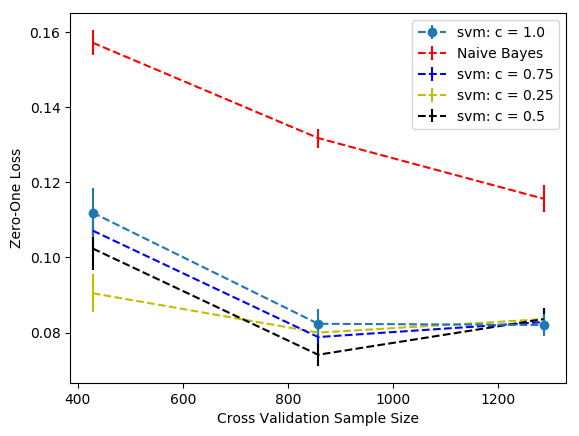
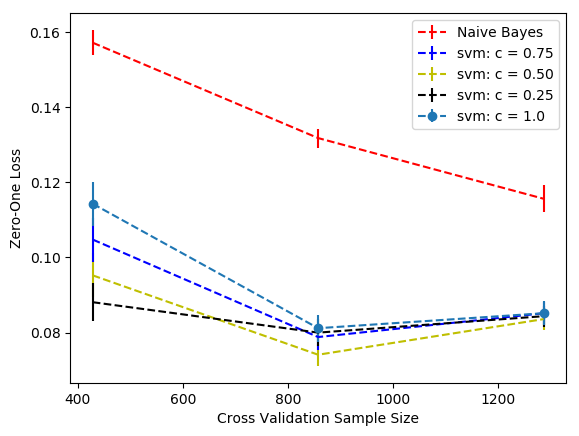
Fix the param plotting method

diff --git a/main.py b/main.py
@@ -1,13 +1,14 @@
 #!/usr/bin/env python3
 import os,sys,re,math,operator,string
 import numpy as np
+import matplotlib
+# matplotlib.use('TkAgg')
 import matplotlib.pyplot as plt
 from utils import *
 from ClassifierResult import *
 from sklearn.svm import LinearSVC
 from sklearn.naive_bayes import MultinomialNB
 from sklearn.datasets import make_classification
-import matplotlib
 
 def k_fold_cross_validation(tr_data,tr_labels,split_number):
 
@@ -16,7 +17,7 @@ def k_fold_cross_validation(tr_data,tr_labels,split_number):
     nb1 = ClassifierResult('Naive Bayes', [])
     svm1 = SVMClassifierResult('svm: c = 1.0', [], [])
     svm2 = SVMClassifierResult('svm: c = 0.75', [], [])
-    svm3 = SVMClassifierResult('svm: c = 0.5', [], [])
+    svm3 = SVMClassifierResult('svm: c = 0.50', [], [])
     svm4 = SVMClassifierResult('svm: c = 0.25', [], [])
 
     # grab what size the chunks should be
@@ -106,29 +107,8 @@ def plot_experiment_losses(model_losses, xaxis_var, xlabel, cv_split_number, lin
     else:
         plt.savefig(fn,bbox_inches='tight')
     plt.clf()
-
-def _plot_experiment_params(svm_params,svm_c1_params,svm_c2_params,svm_c3_params,xaxis_var,xlabel,cv_split_number,fn):
-    print("-=-=-=-=-=-=-=-=-\nPLOTTING PARAMETER VALUES\n-=-=-=-=-=-=-=-=-")
-    model_params = {"svm: c = 0.25":[svm_c1_params,"g--"],"svm: c = 0.50":[svm_c2_params,"r--"],"svm: c = 0.75":[svm_c3_params,"k--"],"svm: c = 1.0":[svm_params,"y--"]}
-
-    for tr_size_idx in range(len(xaxis_var)):
-        model_lines = {}
-        for model in model_params.keys():
-            mean = np.mean(model_params[model][0][tr_size_idx],0)
-            sderr = np.std(model_params[model][0][tr_size_idx],0)/cv_split_number
-            model_lines[model] = plt.errorbar(np.arange(len(mean)),mean,\
-                                              sderr,fmt=model_params[model][1],label=model,fontsize=5)
-                
-        plt.legend(list(model_lines.values()),list(model_lines.keys()),fontsize=8)
-        plt.xlabel(xlabel)
-        plt.ylabel("SVM Coefficient Value")
-        if fn is None:
-            plt.show()
-        else:
-            plt.savefig(fn.format(xaxis_var[tr_size_idx]),bbox_inches='tight')
-        plt.clf()
             
-def plot_experiment_params(model_params, xaxis_var, xlabel, cv_split_number, fn):
+def plot_experiment_params(model_params, xaxis_var, cv_split_number, fn=None):
     print("-=-=-=-=-=-=-=-=-\nPLOTTING PARAMETER VALUES\n-=-=-=-=-=-=-=-=-")
     # Plot the highest training size params
     tr_size_idx = len(xaxis_var)-1
@@ -136,11 +116,13 @@ def plot_experiment_params(model_params, xaxis_var, xlabel, cv_split_number, fn)
         plt.figure(figsize=(20,6))
         plt.ylabel("SVM Coefficient Value")
         plt.xlabel("Coefficient Index")
-        plt.boxplot(x=model_params[model][tr_size_idx],sym="")
+        data = np.array(model_params[model][tr_size_idx])
+        plt.boxplot(x=data,sym="")
         if fn is None:
             plt.show()
         else:
-            plt.savefig(fn.format(model),bbox_inches='tight')
+            filename = fn.format(model.replace(' ', '_').replace('=', '').replace(':', '').replace('.', '_'))
+            plt.savefig(filename, bbox_inches='tight')
         plt.clf()
             
 
@@ -247,4 +229,4 @@ if __name__ == "__main__":
         if exp_no == "1" or exp_no == "-1":
             model_losses, model_params, cv_training_sizes = experiment_1(tr_data, tr_labels, cv_split_number)
             plot_experiment_losses(model_losses, cv_training_sizes, 'Cross Validation Sample Size', cv_split_number, line_types, './figures/exp_1_losses.png')
-            plot_experiment_params(model_params, cv_training_sizes, 'Parameters', cv_split_number, './figures/exp_1_params_{:s}_.png')
+            plot_experiment_params(model_params, cv_training_sizes, cv_split_number, './figures/exp_1_params_{}.png')
